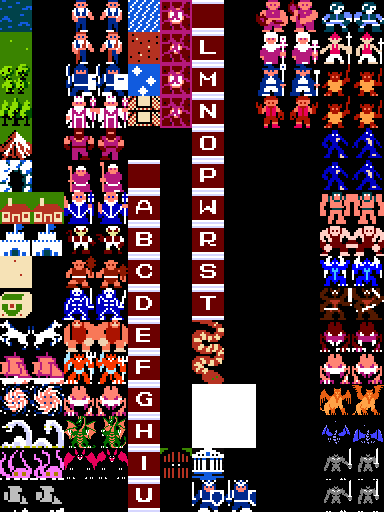
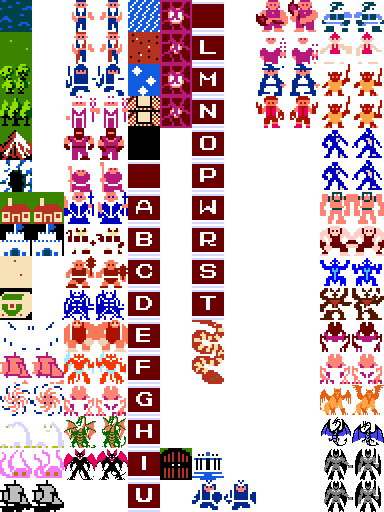
Bake the tile masks into the sheets' alpha; terrain draws from an opaque copy
Claude-Session: https://claude.ai/code/session_013fzjLXvyH1ATjhYrYXYjzx

diff --git a/web/src/ui/graphics.ts b/web/src/ui/graphics.ts
@@ -2,14 +2,17 @@
  * graphics.ts
  *
  * Loads a tile set and knows how to find any tile in it. A tile set is a
- * family of images in public/graphics named "<Set>-Tiles", "-Mask", "-Font"
- * and "-UI" (see `Resources/Graphics/_About This Folder_.rtf`):
+ * family of images in public/graphics named "<Set>-Tiles", "-Font" and
+ * "-UI" (after LairWare's layout, `Resources/Graphics/_About This Folder_.rtf`):
  *
  *   Tiles  12 columns x 16 rows. Column pairs hold the two animation frames
  *          of a tile: tile index i is at row i % 16, column (i / 16) * 2, and
- *          its alternate frame is one column to the right.
- *   Mask   same grid; black = opaque, white = transparent. Used when drawing
- *          creatures and objects over terrain.
+ *          its alternate frame is one column to the right. The sheet's own
+ *          alpha channel is the transparency used when drawing creatures and
+ *          objects over terrain; the Mac kept it in a separate "-Mask" image
+ *          (black opaque, white clear), which this port baked into the sheets
+ *          that had one. A "-Mask" file is still honoured if a set ships one.
+ *          Sets with neither draw creatures opaque, as their machines did.
  *   Font   96 glyphs in one row, starting at ASCII 0x20 (space).
  *   UI     16 columns x 3 rows of border pieces, cursor frames, moon phases.
  *
@@ -76,7 +79,7 @@ function applyMask(tiles: HTMLImageElement, mask: HTMLImageElement | null): HTML
   canvas.height = tiles.height;
   const ctx = canvas.getContext('2d')!;
   ctx.drawImage(tiles, 0, 0);
-  if (!mask) return canvas;
+  if (!mask) return canvas; // the sheet's own alpha (if any) is the mask
 
   const maskCanvas = document.createElement('canvas');
   maskCanvas.width = tiles.width;
@@ -114,6 +117,9 @@ export class GraphicsSet {
   private animPhase = 16;
   private animSkip = 5;
 
+  /** The sheet over black: what terrain is drawn from, so a transparent pixel never shows the last frame. */
+  private readonly opaqueTiles: HTMLCanvasElement;
+
   private constructor(
     readonly tiles: HTMLImageElement,
     readonly maskedTiles: HTMLCanvasElement,
@@ -131,6 +137,13 @@ export class GraphicsSet {
     readonly dungeonStyle: DungeonStyle | null,
   ) {
     this.tileSize = tiles.width / TILE_COLUMNS;
+    this.opaqueTiles = document.createElement('canvas');
+    this.opaqueTiles.width = tiles.width;
+    this.opaqueTiles.height = tiles.height;
+    const octx = this.opaqueTiles.getContext('2d')!;
+    octx.fillStyle = '#000';
+    octx.fillRect(0, 0, tiles.width, tiles.height);
+    octx.drawImage(tiles, 0, 0);
     this.fontSize = font.width / FONT_GLYPHS;
     this.fontHeight = font.height;
     this.uiSize = ui.width / UI_COLUMNS;
@@ -155,7 +168,7 @@ export class GraphicsSet {
     };
     const tiles = await tryLoad('Tiles', ['png', 'gif']);
     if (!tiles) throw new Error('No tile sheet could be loaded');
-    const mask = await tryLoad('Mask', ['gif', 'png']);
+    const mask = await tryLoad('Mask', ['gif', 'png'], false); // only a set's own: Standard's would not fit another sheet
     const font = await tryLoad('Font', ['gif', 'png']);
     const ui = await tryLoad('UI', ['png', 'gif']);
     if (!font || !ui) throw new Error('Font or UI sheet missing');
@@ -192,7 +205,7 @@ export class GraphicsSet {
     size: number,
     opts: { masked?: boolean; flip?: boolean; altFrame?: boolean } = {},
   ): void {
-    const src: CanvasImageSource = opts.masked ? this.maskedTiles : this.tiles;
+    const src: CanvasImageSource = opts.masked ? this.maskedTiles : this.opaqueTiles;
     // Doors are the alternate frame of the letter "I"; `altFrame` forces the
     // second frame (used for the "HIT" balls).
     const rect =

diff --git a/web/README.md b/web/README.md
@@ -280,6 +280,13 @@ save contains except the pooled gold and food.
   Mac's single frame about the shoulder; the Mac sheet's two frames were
   the same picture, so the Ranger alone stood still. Lairware keeps the
   Mac sheet untouched, still Ranger and all.
+- **Tile sheets carry their own transparency.** The Mac shipped a
+  separate grey "Mask" image per set for creature transparency, since
+  QuickDraw had no alpha channel; those masks are baked into the alpha of
+  the five sheets that had one, and the loader reads a sheet's alpha
+  directly. A set that ships a Mask file is still honoured; a set with
+  neither draws creatures opaque, as its machine did. LairWare's original
+  files remain in `Resources/Graphics` at the root of the repository.
 - **Appearance**: the classic bitmap-font layout is used throughout; any of
   the thirteen tile sets (with their fonts, borders and dungeon art) can be chosen in
   Settings, Standard by default.

diff --git a/web/docs/dungeon-sheet.md b/web/docs/dungeon-sheet.md
@@ -1,7 +1,7 @@
 # Dungeon art sheets
 
 The first-person dungeon view is drawn from two images that belong to a
-tile set, next to its Tiles, Mask, Font and UI files in `public/graphics`:
+tile set, next to its Tiles, Font and UI files in `public/graphics`:
 
 - `<Set>-DungeonShapes.png` (or `.jpg`): a 3000x512 sheet of wall pieces
   and corridor background.
